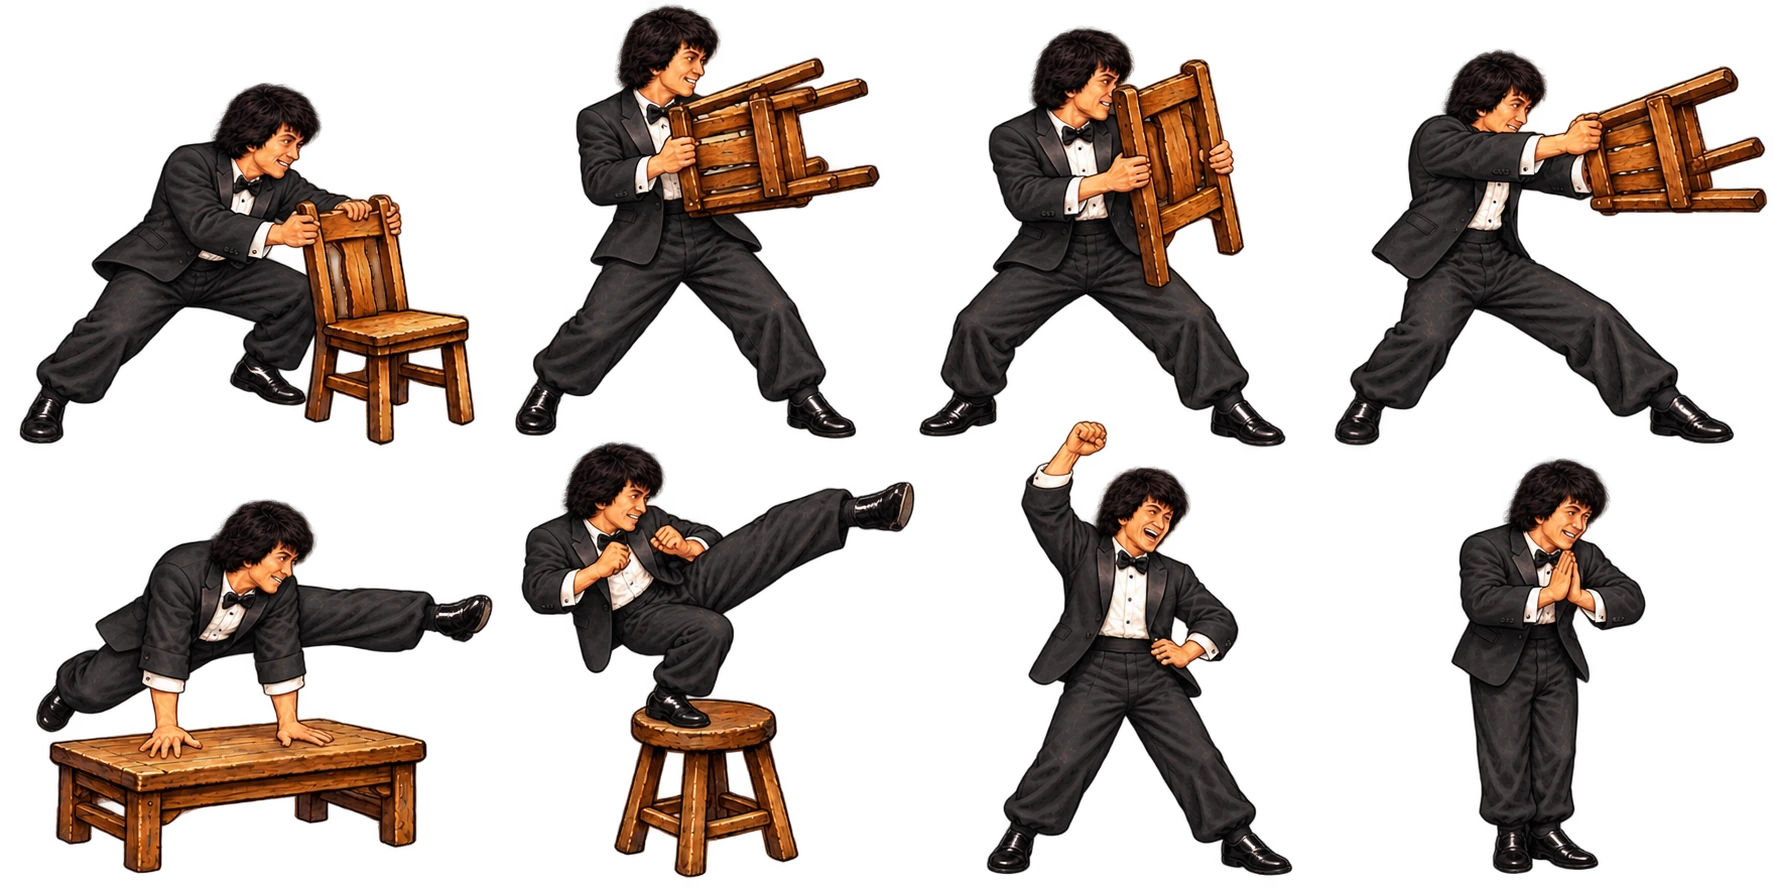
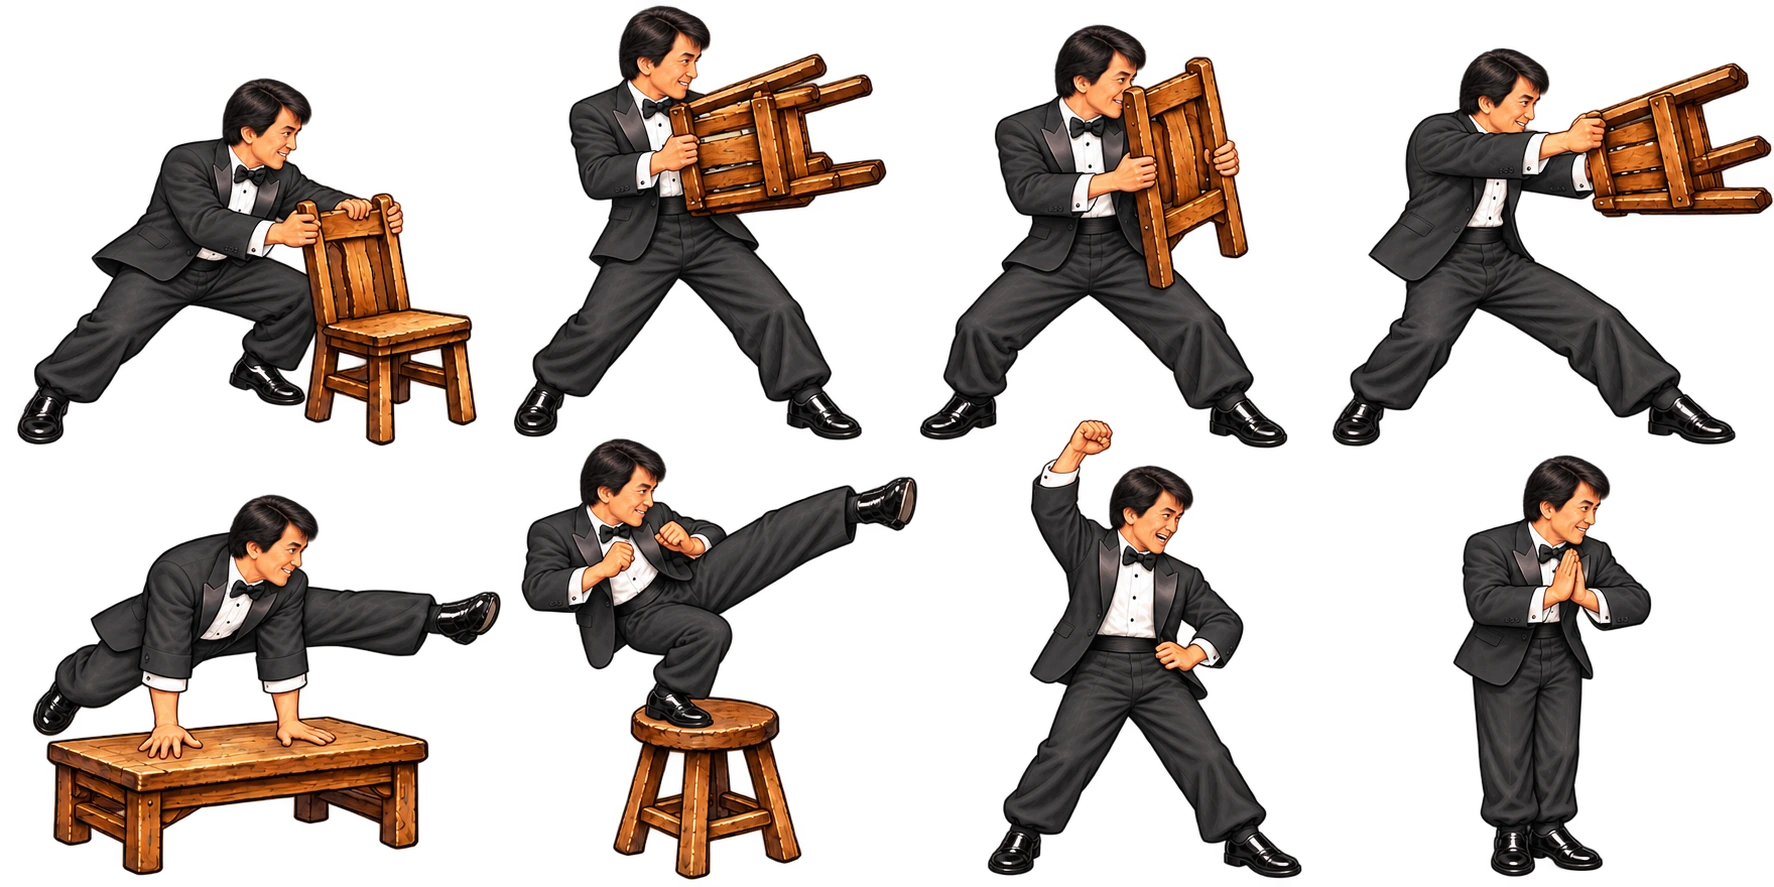
Give each film costume its own complete character appearance

diff --git a/docs/jackie-chan.md b/docs/jackie-chan.md
@@ -2,6 +2,8 @@
 
 Карточка подтверждённой выплаты при досрочном завершении серии находится у верхнего края сцены. Пустая строка продолжения скрыта, подписи локации и риска временно уступают ей место. На узком экране сцена сохраняет достаточно высоты, чтобы карточка находилась выше головы героя. Момент выплаты, звук, восстановление и правила серии сохраняются. Проверка использует настоящую сцену и общий кошелёк на ширинах от 320 до 1000 px, включая размер пользовательского примера.
 
+Образы коллекции переработаны целиком: семь дополнительных костюмов имеют собственные волосы, возраст лица, мимику и детали одежды во всех 112 обычных, мебельных и победных кадрах. Ранний образ «Пьяного мастера» остаётся исходным ориентиром. Моряк получил короткую причёску с пробором и белую форму; полицейский более собранное лицо и причёску начала 1980-х; искатель коротко подстриженные волосы; детектив зрелое лицо и аккуратную стрижку; герой «Кто я?» кожаную куртку из городских сцен и короткую растрёпанную причёску; герой «Смокинга» зрелое лицо и формальный образ; наставник выраженные возрастные черты, редеющие седые волосы и щетину. Это рисованные интерпретации экранных образов. Сетка кадров, контактные позиции, приёмы и правила коллекции сохранены. Встроенный image_gen использован для каждого из 14 атласов; точные промпты, источники генерации, контрольные суммы и ссылки на визуальные ориентиры записаны в `docs/artwork/jackie-chan.json`.
+
 Новая самостоятельная игра `original-jackie-chan`, клиентский пакет `games/jackie-chan/`. Один рисованный герой кунг-фу, несколько локаций и открываемые костюмы по мотивам старых фильмов. Статус этой ветки: локальный кандидат для визуального ревью, без публикации на production.
 
 ## Принятые решения
